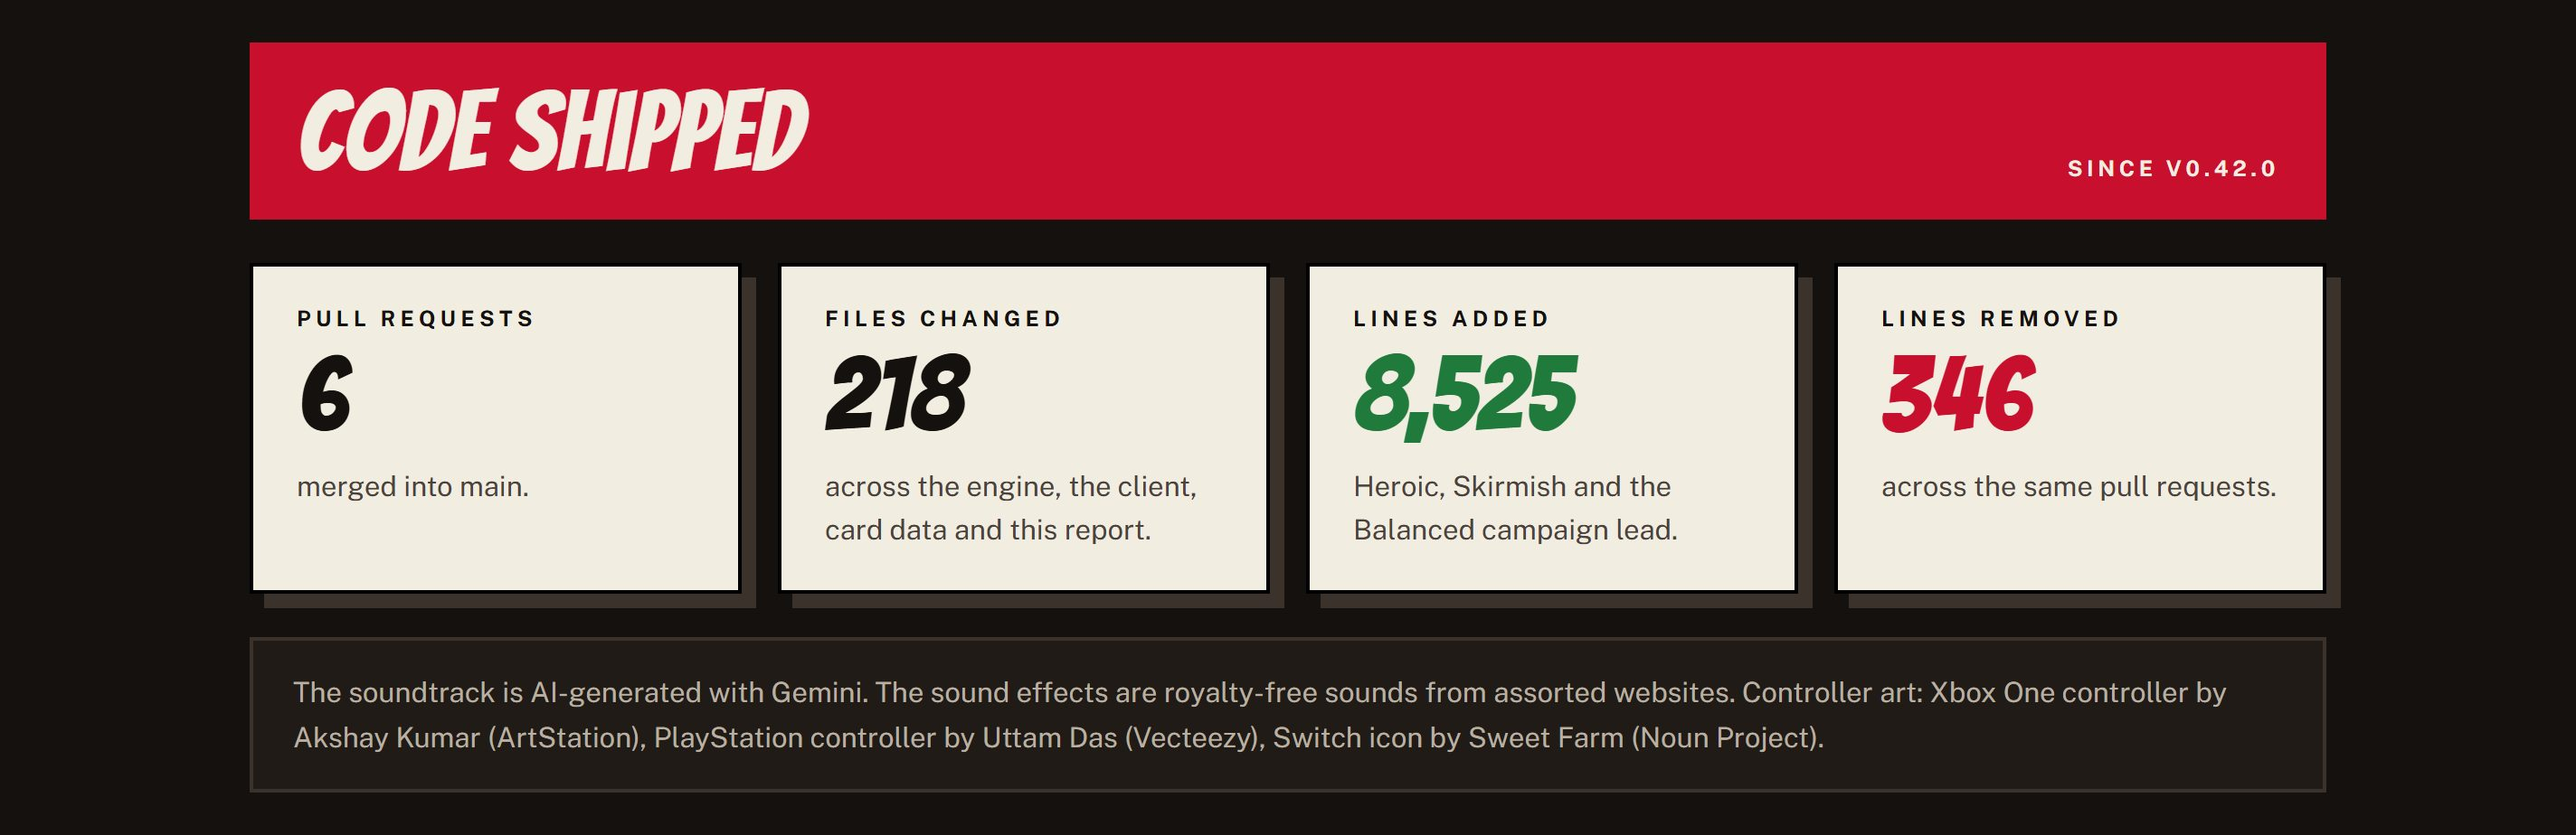
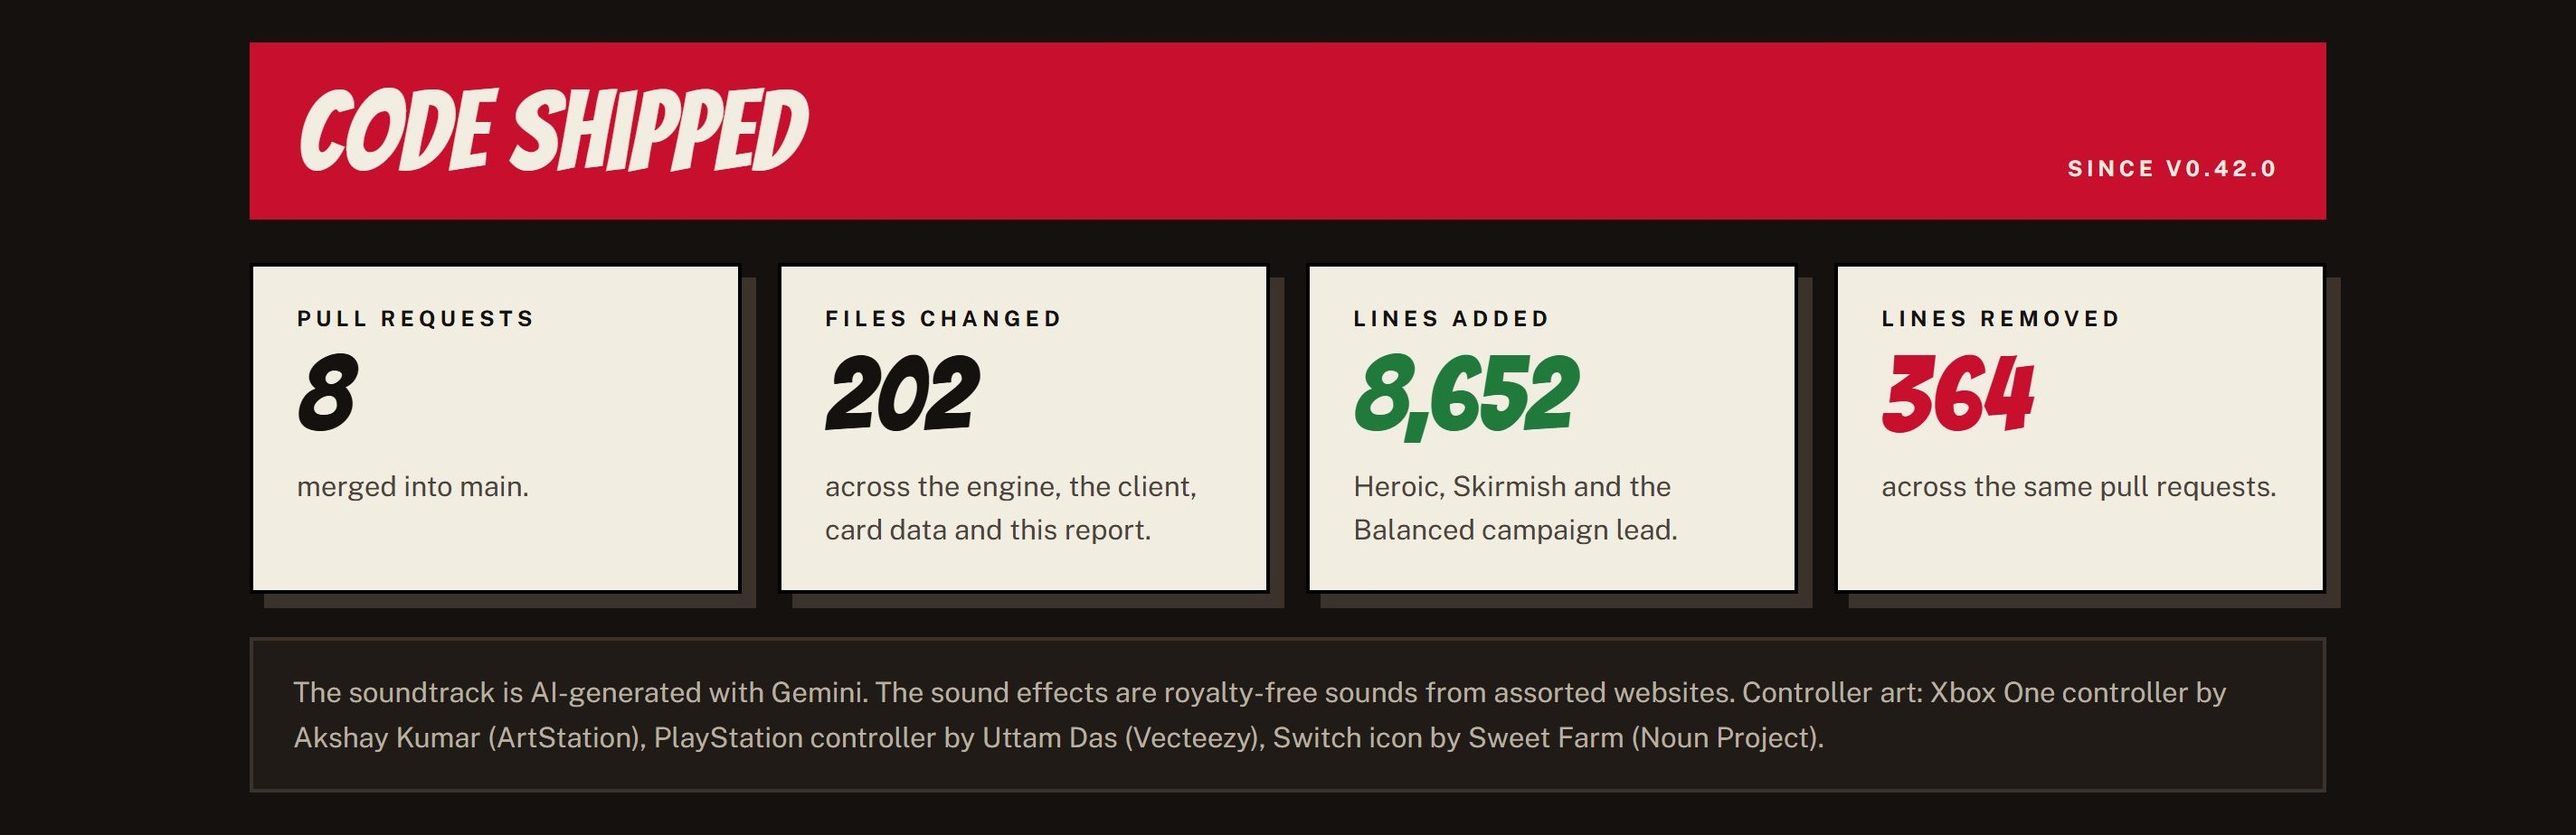
Set the final v0.43.0 Code shipped numbers

diff --git a/packages/client/public/releases/v0.43.0/index.html b/packages/client/public/releases/v0.43.0/index.html
@@ -1065,22 +1065,22 @@
       <section class="stats" aria-label="Code shipped since v0.42.0">
         <div class="tile">
           <h4>Pull requests</h4>
-          <div class="n">6</div>
+          <div class="n">8</div>
           <p>merged into main.</p>
         </div>
         <div class="tile">
           <h4>Files changed</h4>
-          <div class="n">218</div>
+          <div class="n">202</div>
           <p>across the engine, the client, card data and this report.</p>
         </div>
         <div class="tile">
           <h4>Lines added</h4>
-          <div class="n c-green">8,525</div>
+          <div class="n c-green">8,652</div>
           <p>Heroic, Skirmish and the Balanced campaign lead.</p>
         </div>
         <div class="tile">
           <h4>Lines removed</h4>
-          <div class="n c-red">346</div>
+          <div class="n c-red">364</div>
           <p>across the same pull requests.</p>
         </div>
       </section>
